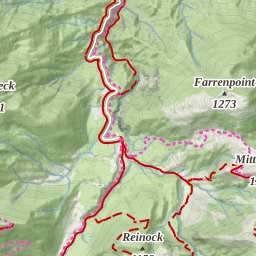
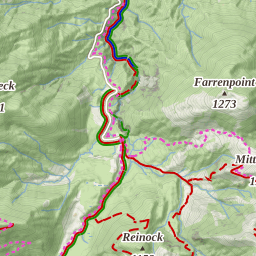
Added the Breitensteinfensterl hike.

diff --git a/static/_projects/data-viz/hikes/markdown/2025-07-20-breitensteinfensterl.md b/static/_projects/data-viz/hikes/markdown/2025-07-20-breitensteinfensterl.md
@@ -1,0 +1,121 @@
+Topo from [stadler-markus.de](https://www.stadler-markus.de/klettern/breitenstein-und-schwarzwand.html):
+![Topo of the climb](/images/hikes/topo/breitensteinfensterl.png)
+
+After doing the [Breitenstein (1622 m)](/hikes/2025-05-18-breitenstein_wendelstein/)
+hike with David a while ago, I was fascinated by the rock formation called
+Breitensteinfensterl (1350 m), seeing photos of it online.
+
+![Ruins I mentioned in the Breitenstein (1622 m) post](/images/projects/data-viz/hikes/stories/breitensteinfensterl/2025-07-20-00.jpg)
+![Forest on the way up](/images/projects/data-viz/hikes/stories/breitensteinfensterl/2025-07-20-01.jpg)
+
+I started the hike the same way as for my trip to Breitenstein (1622 m), going
+up the forest road while passing other hikers. The weather was quite hot, and
+some of the passerby hikers took off their shirts to cool down. There were tons
+of bugs around, with butterflies fluttering everywhere.
+
+![A butterfly on my shorts](/images/projects/data-viz/hikes/stories/breitensteinfensterl/2025-07-20-02.jpg)
+![Lady's smock aka cuckoo flower aka cardamine pratensis](/images/projects/data-viz/hikes/stories/breitensteinfensterl/2025-07-20-03.jpg)
+
+At some point, I reached a fork in the road. While most hikers followed the
+wide path up to the main peak, I turned into high grass and bushes, following a
+smaller trail that led to the Breitensteinfensterl (1350 m). After I passed
+a few hikers with a dog right near the rock formation, I started to prepare for
+the climb.
+
+![Breitensteinfensterl (1350 m) from below](/images/projects/data-viz/hikes/stories/breitensteinfensterl/2025-07-20-08.jpg)
+![Me at the top of Breitensteinfensterl (1350 m)](/images/projects/data-viz/hikes/stories/breitensteinfensterl/2025-07-20-04.jpg)
+
+The climb starts with a short section without any protection. You have to grab
+the rock and pull yourself up. After that, the cable starts, and you can clip
+in your via ferrata set. The climb is quite exposed, with wind constantly
+blowing on you. Next comes the Drahtseil, the narrow section with drops on both
+sides. Afterwards, it's a straightforward climb to the top.
+
+![The view from Breitensteinfensterl (1350 m)](/images/projects/data-viz/hikes/stories/breitensteinfensterl/2025-07-20-05.jpg)
+![Me drinking my last Prime (still disgusting)](/images/projects/data-viz/hikes/stories/breitensteinfensterl/2025-07-20-06.jpg)
+
+All the thrill and adrenaline was worth it! Despite my shaky limbs and panicked
+voice, I enjoyed it immensely. Experience the entire ascent in a full 360° view
+below. This feature is compatible with all devices; however, mobile users with
+a gyroscope can simply tilt their phones to pan around. To ensure the highest
+quality, please select a high-resolution setting via the gear icon. Captions
+are available as well!
+
+![The 360° climb of Breitensteinfensterl (1350 m)](/404/)
+
+After collecting myself at the top, I headed back down the same way I came up.
+The descent was even scarier, having to backtrack the exposed sections. But I
+managed to make it down safely. As I reached the base, another pair of older
+hikers came up to pass by the rock formation. I decided to have some snacks and
+take in the view while talking to them.
+
+![Another butterfly on my shirt](/images/projects/data-viz/hikes/stories/breitensteinfensterl/2025-07-20-07.jpg)
+![Mountain cornflower aka bachelor's button](/images/projects/data-viz/hikes/stories/breitensteinfensterl/2025-07-20-09.jpg)
+
+Although I came to climb the Breitensteinfensterl (1350 m), I still had a lot
+of energy left. So, I continued up to the main Breitenstein (1622 m) peak,
+following a small trail between trees and rocks. It seemed like a popular spot
+for rock climbers, as many of the rocks had markings on them.
+
+![Rocks on the way up](/images/projects/data-viz/hikes/stories/breitensteinfensterl/2025-07-20-10.jpg)
+![The view on the trail](/images/projects/data-viz/hikes/stories/breitensteinfensterl/2025-07-20-11.jpg)
+
+Eventually, I reached the bare hillside of the mountain, with a clear view of
+the surroundings. The whole slope was covered in berries, which I happily
+picked up and ate. Thankfully, I had brought enough water to wash them down.
+Soon, I saw the summit cross of Breitenstein Westgipfel (1575 m), with some
+hikers on the surrounding rocks.
+
+![The Breitenstein Westgipfel (1575 m) from below](/images/projects/data-viz/hikes/stories/breitensteinfensterl/2025-07-20-12.jpg)
+![The cross at Breitenstein Westgipfel (1575 m)](/images/projects/data-viz/hikes/stories/breitensteinfensterl/2025-07-20-15.jpg)
+
+I ate my last snack at the summit, enjoying the panoramic view of the
+mountains. I started feeling thirsty again, but I had no water left after
+eating the berries. I had several choices: ask other hikers for water, go back
+down to Birkenstein in search of a water source, or continue to the main
+Breitenstein (1622 m) peak and hope to find water in the nearby hut.
+
+![View down from Breitenstein Westgipfel (1575 m)](/images/projects/data-viz/hikes/stories/breitensteinfensterl/2025-07-20-13.jpg)
+![View from Breitenstein Westgipfel (1575 m) towards Breitenstein (1622 m) and Wendelstein (1838 m)](/images/projects/data-viz/hikes/stories/breitensteinfensterl/2025-07-20-14.jpg)
+
+The closest hut was near the main summit, so I decided to continue there. The
+trail leading there was quite interesting, with a small section going through
+the bushes. I had to jump over a small hole between the rocks, which made the
+route more fun. Finally, I reached the summit of Breitenstein (1622 m),
+where I stayed just for a moment to take in the view. It was nice seeing
+[Wendelstein (1838 m)](/404/) in the distance again.
+
+![A puddle on the way](/images/projects/data-viz/hikes/stories/breitensteinfensterl/2025-07-20-16.jpg)
+![View down from Breitenstein (1622 m)](/images/projects/data-viz/hikes/stories/breitensteinfensterl/2025-07-20-17.jpg)
+
+I headed down to Hubertushütte, hoping to get a drink there. However, the hut
+was already closed for the day, so I had to proceed. I knew my last option for
+getting water was at the Kesselalm (1278 m), so I hurried down the trail to
+get there before it closed.
+
+![View from Breitenstein (1622 m) towards Wendelstein (1838 m)](/images/projects/data-viz/hikes/stories/breitensteinfensterl/2025-07-20-18.jpg)
+![Road down to Kesselalm (1278 m)](/images/projects/data-viz/hikes/stories/breitensteinfensterl/2025-07-20-19.jpg)
+
+When I reached the hut, there were only two people sitting outside. I quickly
+entered and asked if they were still open. The lady nodded and told me to
+order quickly, as they were about to close. I ordered some Skiwasser and a
+glass of Almdudler, which I drank eagerly. The hiker toilets were also closed
+for the day, but they kindly let me use the ones inside the hut.
+
+![The life-saving drinks on display](/images/projects/data-viz/hikes/stories/breitensteinfensterl/2025-07-20-20.jpg)
+
+After refreshing myself, I started the final descent back to Birkenstein. I
+took the same trail as on my [Easter hike to Schweinsberg (1514 m)](/hikes/2025-04-21-schweinsberg/),
+so I was familiar with the route. The walk was peaceful, with the sun
+setting behind the hills. I reached Birkenstein just a few minutes before the
+bus drove by, so I took it back to the train station.
+
+![The Easter egg hunting spot from the Schweinsberg (1514 m) hike](/images/projects/data-viz/hikes/stories/breitensteinfensterl/2025-07-20-21.jpg)
+
+All in all, it was a great hike with an unforgettable climb. I would only
+recommend the climb to experienced hikers with a good head for heights, as it
+is not for the faint of heart. But if you are up for the challenge, the
+Breitensteinfensterl (1350 m) is definitely worth the effort! And the rest of
+the hike is accessible to all hikers, with beautiful views and interesting
+trails. You also have an option to turn west from Breitenstein Westgipfel
+(1575 m) and go down to the famous [Café Winklstüberl](https://www.winklstueberl.de/).

diff --git a/static/_projects/data-viz/hikes/markdown/2025-07-06-bruennstein.md b/static/_projects/data-viz/hikes/markdown/2025-07-06-bruennstein.md
@@ -1,3 +1,6 @@
+Topo from [bergsteigen.com](https://www.bergsteigen.com/touren/klettersteig/dr-julius-mayr-weg/):
+![Topo of the climb](/images/hikes/topo/bruennstein.png)
+
 I don't remember what came first: our plan to climb Zugspitze (2962 m) over
 Höllental which [we later did](/hikes/2025-09-18-zugspitze_hoellental/), or
 the idea to start rock climbing indoors. Either way, we bought a climbing
